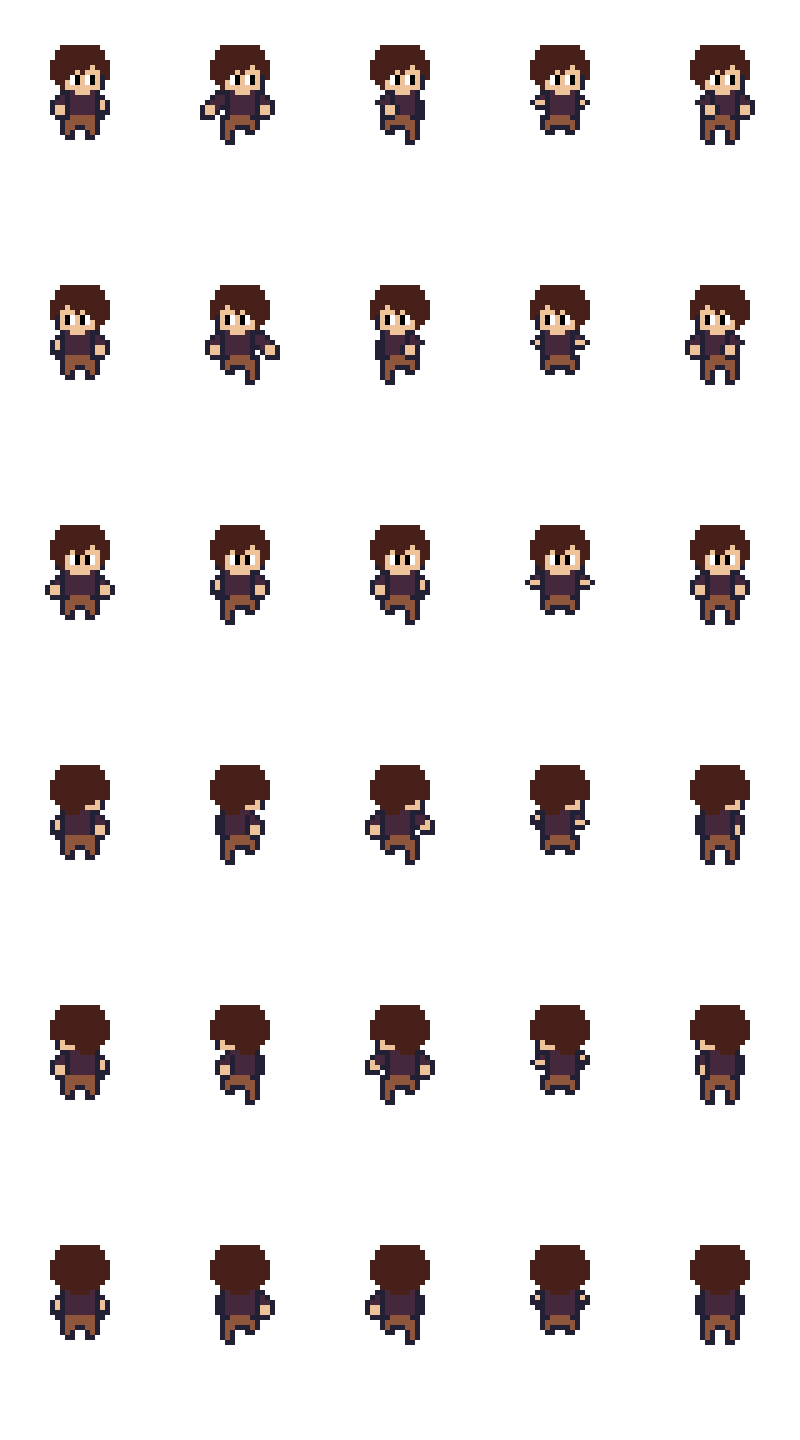
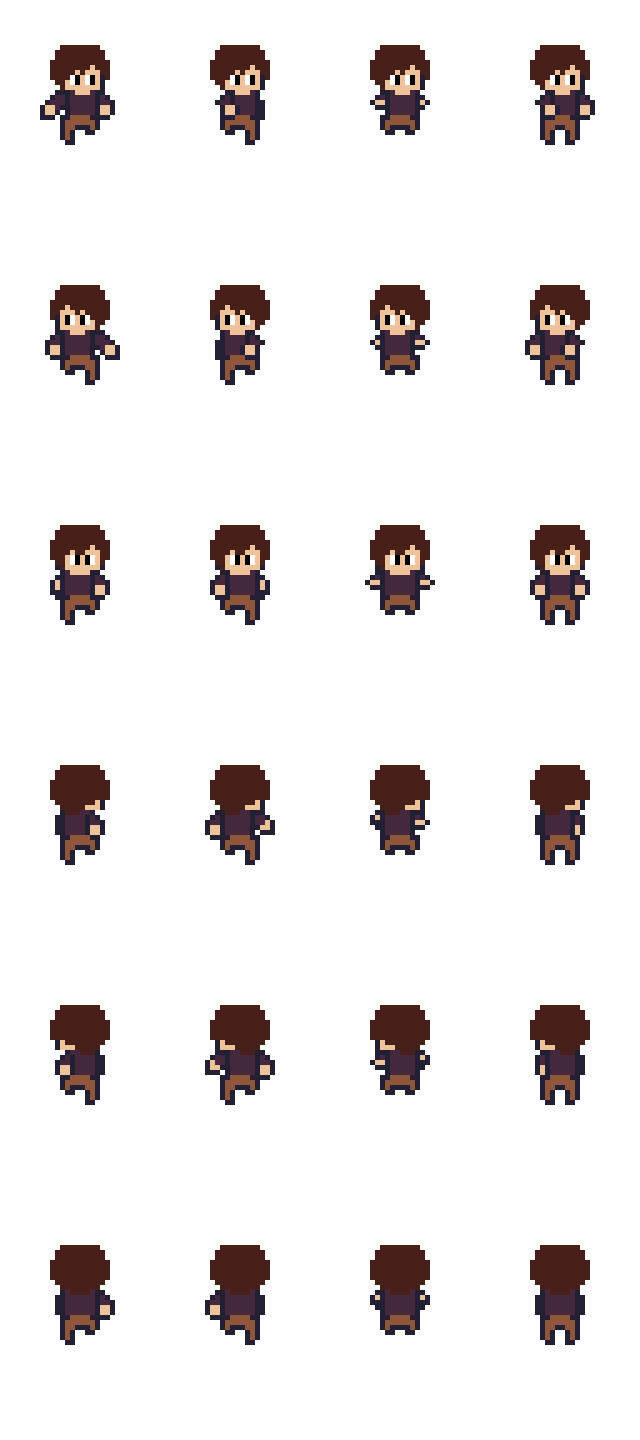
MVP6 - 0.1 unit idle animation and cell size refactor

diff --git a/src/components/exampleGameFramework/gameObjects/spriteObjects/structures/StructureBuilder.js b/src/components/exampleGameFramework/gameObjects/spriteObjects/structures/StructureBuilder.js
@@ -18,21 +18,23 @@ export default class StructureBuilderClass {
 
    }
 
-   generateStructures = (mapSizeConstant) => {
-      let noiseFluctuation = MAP_SIZES[mapSizeConstant.size].noiseFluctuation
+   generateStructures = (mapSize) => {
+      let noiseFluctuation = MAP_SIZES[mapSize].noiseFluctuation
       this.generateModifiers(noiseFluctuation)
       this.generateProps()
-      this.generateMainBases(mapSizeConstant.q, mapSizeConstant.r, mapSizeConstant.size)
-      this.generateMines(mapSizeConstant.q, mapSizeConstant.r, mapSizeConstant.size)
-      this.generateBases(mapSizeConstant.q, mapSizeConstant.r, mapSizeConstant.size)
+      this.generateMainBases(mapSize)
+      this.generateMines(mapSize)
+      this.generateBases(mapSize)
    }
 
-   generateBases = (q, r, mapSize) => {
+   generateBases = (mapSize) => {
 
-      let bufferSize = MAP_SIZES[mapSize].bufferSize
+      let mapConfig = MAP_SIZES[mapSize]
 
-      for (let rGen = 0; rGen < r; rGen++) {
-         for (let qGen = 0; qGen < q; qGen++) {
+      let bufferSize = mapConfig.bufferSize
+
+      for (let rGen = 0; rGen < mapConfig.r; rGen++) {
+         for (let qGen = 0; qGen < mapConfig.q; qGen++) {
             let cellTiles = []
 
             for (let rPos = bufferSize + CELL_SIZE.r * rGen; rPos < bufferSize + CELL_SIZE.r * (rGen + 1); rPos++) {
@@ -74,32 +76,41 @@ export default class StructureBuilderClass {
 
    }
 
-   generateMainBases = (q, r, mapSize) => {
-      let bufferSize = MAP_SIZES[mapSize].bufferSize
+   generateMainBases = (mapSize) => {
+      let mapConfig = MAP_SIZES[mapSize]
 
-      //base 1
-      let rPos = Math.floor(bufferSize + CELL_SIZE.r * 0.25)
-      let qPos = Math.floor(CELL_SIZE.q * 0.75 - Math.floor(0.25 / 2))
+      let bufferSize = mapConfig.bufferSize
 
-      this.structureBuilderUtils.setMainBase(qPos, rPos)
 
-      //base 2
-      rPos = Math.floor(bufferSize + CELL_SIZE.r * r - CELL_SIZE.r * 0.25)
-      qPos = Math.floor(CELL_SIZE.q * 1 - Math.floor(rPos / 2))
+      for (let i=0; i<mapConfig.bases; i++){
 
-      this.structureBuilderUtils.setMainBase(qPos, rPos)
+         //base 1
+         let rPos = Math.floor(bufferSize + CELL_SIZE.r * 0.25)
+         let qPos = Math.floor((CELL_SIZE.q * mapConfig.q)/(mapConfig.bases+1)*(i+1) - Math.floor(rPos / 2))
+   
+         this.structureBuilderUtils.setMainBase(qPos, rPos)
+   
+         //base 2
+         rPos = Math.floor(bufferSize + CELL_SIZE.r * mapConfig.r - CELL_SIZE.r * 0.25)
+         qPos = Math.floor((CELL_SIZE.q * mapConfig.q)/(mapConfig.bases+1)*(i+1) - Math.floor(rPos / 2))
+   
+         this.structureBuilderUtils.setMainBase(qPos, rPos)
+
+      }
+
    }
 
-   generateMines = (q, r, mapSize) => {
+   generateMines = (mapSize) => {
+      let mapConfig = MAP_SIZES[mapSize]
 
-      let bufferSize = MAP_SIZES[mapSize].bufferSize
+      let bufferSize = mapConfig.bufferSize
 
       let closeSpriteList = ['goldmine', 'coppermine']
 
       let farSpriteList = ['goldmine', 'ironmine', 'rubymine', 'amethystmine']
 
-      for (let rGen = 0; rGen < r; rGen++) {
-         for (let qGen = 0; qGen < q; qGen++) {
+      for (let rGen = 0; rGen < mapConfig.r; rGen++) {
+         for (let qGen = 0; qGen < mapConfig.q; qGen++) {
             let cellTiles = []
 
             for (let rPos = bufferSize + CELL_SIZE.r * rGen; rPos < bufferSize + CELL_SIZE.r * (rGen + 1); rPos++) {
@@ -142,7 +153,7 @@ export default class StructureBuilderClass {
 
                let closeSection = false
 
-               if (rGen == 0 || rGen == r - 1) closeSection = true
+               if (rGen == 0 || rGen == mapSize.r - 1) closeSection = true
 
 
                let mineType
@@ -243,4 +254,5 @@ export default class StructureBuilderClass {
       }
 
    }
+   
 }

diff --git a/src/components/exampleGameFramework/gameObjects/spriteObjects/SpriteObjectView.js b/src/components/exampleGameFramework/gameObjects/spriteObjects/SpriteObjectView.js
@@ -65,14 +65,38 @@ export default class SpriteObjectViewClass {
             rotatedTile: this.commonUtils.rotateTile(unitObject.position.q, unitObject.position.r, this.cameraData.rotation),
             layer: 0
          })
-      }
 
-      
+         if (unitObject.destination != null) this.setUnitLayer(spriteList[spriteList.length - 1])
+      }
 
       //sort terrain object list
       spriteList.sort((a, b) => { return a.rotatedTile.r - b.rotatedTile.r || a.rotatedTile.q - b.rotatedTile.q || a.layer - b.layer })
 
       return spriteList
+   }
+
+   setUnitLayer = (spriteListEntry) => {
+
+      let unit = spriteListEntry.spriteObject
+      let percent = (unit.destinationCurTime - unit.destinationStartTime) / unit.travelTime
+      let rotationMap = {
+         1: 'up',
+         3: 'down',
+         5: 'down',
+         7: 'down',
+         9: 'up',
+         11: 'up',
+      }
+
+      let spriteRotation = unit.rotation + this.cameraData.rotation
+      if (this.cameraData.rotation % 2 == 1) spriteRotation--
+      if (spriteRotation > 11) spriteRotation -= 12
+      let direction = rotationMap[spriteRotation]
+
+      if((percent > 0.3 && percent < 0.5 && direction == 'up') || (percent < 0.7 && percent > 0.5 && direction == 'down')) spriteListEntry.layer = -2
+      if((percent > 0.3 && percent < 0.5 && direction == 'down') || (percent < 0.7 && percent > 0.5 && direction == 'up')) spriteListEntry.layer = 2
+      console.log(percent, spriteListEntry.layer)
+
    }
 
    draw = (drawctx) => {
@@ -120,8 +144,8 @@ export default class SpriteObjectViewClass {
                this.structures.draw(drawctx, spriteObject)
                continue
             case 'modifier':
-               if (spriteList[i].layer == 1) this.modifiers.drawTop(drawctx, spriteObject)
-               if (spriteList[i].layer == -1) this.modifiers.drawBottom(drawctx, spriteObject)
+               if (spriteList[i].layer == -1) this.modifiers.drawTop(drawctx, spriteObject)
+               if (spriteList[i].layer == 1) this.modifiers.drawBottom(drawctx, spriteObject)
                continue
             case 'unit':
                this.units.draw(drawctx, spriteObject)

diff --git a/src/components/exampleGameFramework/imageLoaders/units/unitImagesVillager.js b/src/components/exampleGameFramework/imageLoaders/units/unitImagesVillager.js
@@ -6,6 +6,7 @@ import attack_sheet from '../../images/units/villagerUnit/villager_unit_attack_s
 import death_sheet from '../../images/units/villagerUnit/villager_unit_death_sheet.png'
 import mine_sheet from '../../images/units/villagerUnit/villager_unit_mine_sheet.png'
 import walk_sheet from '../../images/units/villagerUnit/villager_unit_walk_sheet.png'
+import idle_sheet from '../../images/units/villagerUnit/villager_unit_idle_sheet.png'
 
 export default class UnitImagesVillagerClass extends ImageLoaderClass {
 
@@ -81,18 +82,25 @@ export default class UnitImagesVillagerClass extends ImageLoaderClass {
             walk: {
                 image: walk_sheet,
                 sprites: {
+                    0: 'walk_1',
+                    1: 'walk_2',
+                    2: 'jump_1',
+                    3: 'jump_2'
+                }
+            },
+            idle: {
+                image: idle_sheet,
+                sprites: {
                     0: 'idle_1',
-                    1: 'walk_1',
-                    2: 'walk_2',
-                    3: 'jump_1',
-                    4: 'jump_2'
+                    1: 'idle_2',
                 }
             }
         }
 
         this.animation_data = {
             idle: [
-                'idle_1'
+                'idle_1',
+                'idle_2'
             ],
             walk: [
                 'walk_1',

diff --git a/src/components/exampleGameFramework/gameObjects/spriteObjects/unit/Unit.js b/src/components/exampleGameFramework/gameObjects/spriteObjects/unit/Unit.js
@@ -63,7 +63,7 @@ export default class UnitClass {
         this.render = true
 
         this.state = {
-            idle: { name: 'idle', rate: 'static', duration: 'continuous', type: 'static' },
+            idle: { name: 'idle', rate: 900, duration: 'continuous', type: 'static' },
             walk: { name: 'walk', rate: 150, duration: 'continuous', type: 'action' },
             jump: { name: 'jump', rate: 250, duration: 'continuous', type: 'action' },
             mine: { name: 'mine', rate: 150, duration: 900, type: 'action' },
@@ -83,6 +83,7 @@ export default class UnitClass {
         this.render = true
 
         this.rotation = this.commonUtils.getDirection(this.position, targetPos)
+        console.log(this.rotation)
 
     }
 
@@ -165,8 +166,8 @@ export default class UnitClass {
 
         this.target = null
         this.frame = 0
-        this.frameStartTime = null
-        this.frameCurTime = null
+        this.frameStartTime = Date.now()
+        this.frameCurTime = Date.now()
         this.animationCurTime = null
         this.animationStartTime = null
         this.destination = null

diff --git a/src/components/exampleGameFramework/gameObjects/commonConstants/CommonConstants.js b/src/components/exampleGameFramework/gameObjects/commonConstants/CommonConstants.js
@@ -12,24 +12,36 @@ export const CELL_SIZE = {
 
 export const MAP_SIZES = {
     small: {
+        q: 2,
+        r: 3,
+        type: 'long',
         noiseFluctuation: 5,
-        bufferSize: 3
+        bufferSize: 3,
+        bases: 1
     },
     medium: {
+        q: 3,
+        r: 3,
+        type: 'long',
         noiseFluctuation: 6,
-        bufferSize: 4
+        bufferSize: 4,
+        bases: 2
     },
     large: {
+        q: 4,
+        r: 3,
+        type: 'long',
         noiseFluctuation: 7,
-        bufferSize: 5
+        bufferSize: 5,
+        bases: 3
     },
-    extralarge: {
+    square: {
+        q: 3,
+        r: 3,
+        type: 'square',
         noiseFluctuation: 8,
-        bufferSize: 7
-    },
-    massive: {
-        noiseFluctuation: 9,
-        bufferSize: 10
+        bufferSize: 7,
+        bases: 2
     },
 }
 

diff --git a/src/components/exampleGameFramework/gameObjects/tileStack/TileStackBuilder.js b/src/components/exampleGameFramework/gameObjects/tileStack/TileStackBuilder.js
@@ -18,16 +18,17 @@ export default class TileStackBuilderClass {
 
     }
 
-    buildMap = (mapSizeConstant) => {
-        this.generateMap(mapSizeConstant.q, mapSizeConstant.r, mapSizeConstant.size)
-        this.generateBiomes(mapSizeConstant.size)
+    buildMap = (mapSize) => {
+        this.generateMap(mapSize)
+        this.generateBiomes(mapSize)
         this.smoothBiomes()
     }
 
-    generateMap = (q, r, mapSize) => {
+    generateMap = (mapSize) => {
 
-        let Qgen = q * CELL_SIZE.q
-        let Rgen = r * CELL_SIZE.r + MAP_SIZES[mapSize].bufferSize * 2
+        let mapConfig = MAP_SIZES[mapSize]
+        let Qgen = mapConfig.q * CELL_SIZE.q
+        let Rgen = mapConfig.r * CELL_SIZE.r + mapConfig.bufferSize * 2
 
         let groundShadowDistance = 3 //make setting
 

diff --git a/src/components/exampleGameFramework/UserConstants.js b/src/components/exampleGameFramework/UserConstants.js
@@ -3,12 +3,7 @@ export default class UserConstantsClass {
     constructor(externalSettings){
 
         
-        this.MAP_SIZE = externalSettings.mapSize == 'small' ? {size: 'small', q: 2, r: 3} 
-            : externalSettings.mapSize == 'medium' ? {size: 'medium', q: 3, r: 4} 
-            : externalSettings.mapSize == 'large' ? {size: 'large', q: 4, r: 5} 
-            : externalSettings.mapSize == 'extralarge' ? {size: 'extralarge', q: 6, r: 7}
-            : {size: 'massive', q: 9, r: 10}
-            //r must be odd for mirrored map to work
+        this.MAP_SIZE = externalSettings.mapSize
 
         this.DEBUG = false;
 

diff --git a/src/components/content/ContentPanel.js b/src/components/content/ContentPanel.js
@@ -201,8 +201,7 @@ const ContentPanel = () => {
                            <option value={'small'}>Small</option>
                            <option value={'medium'}>Medium</option>
                            <option value={'large'}>Large</option>
-                           <option value={'extralarge'}>Extra Large</option>
-                           <option value={'massive'}>Massive</option>
+                           <option value={'square'}>Square</option>
                         </Form.Control>
                      </div>
                   </Form.Group>
